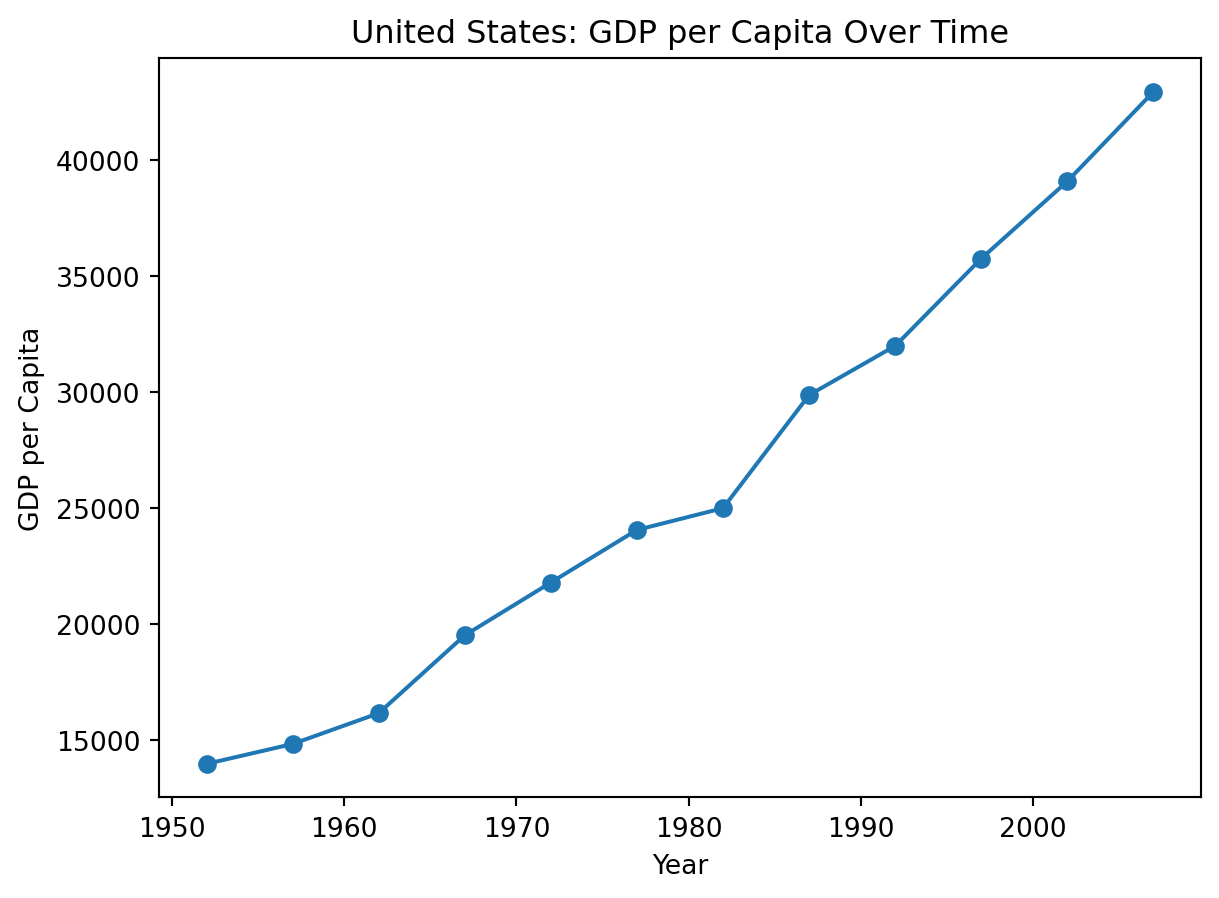
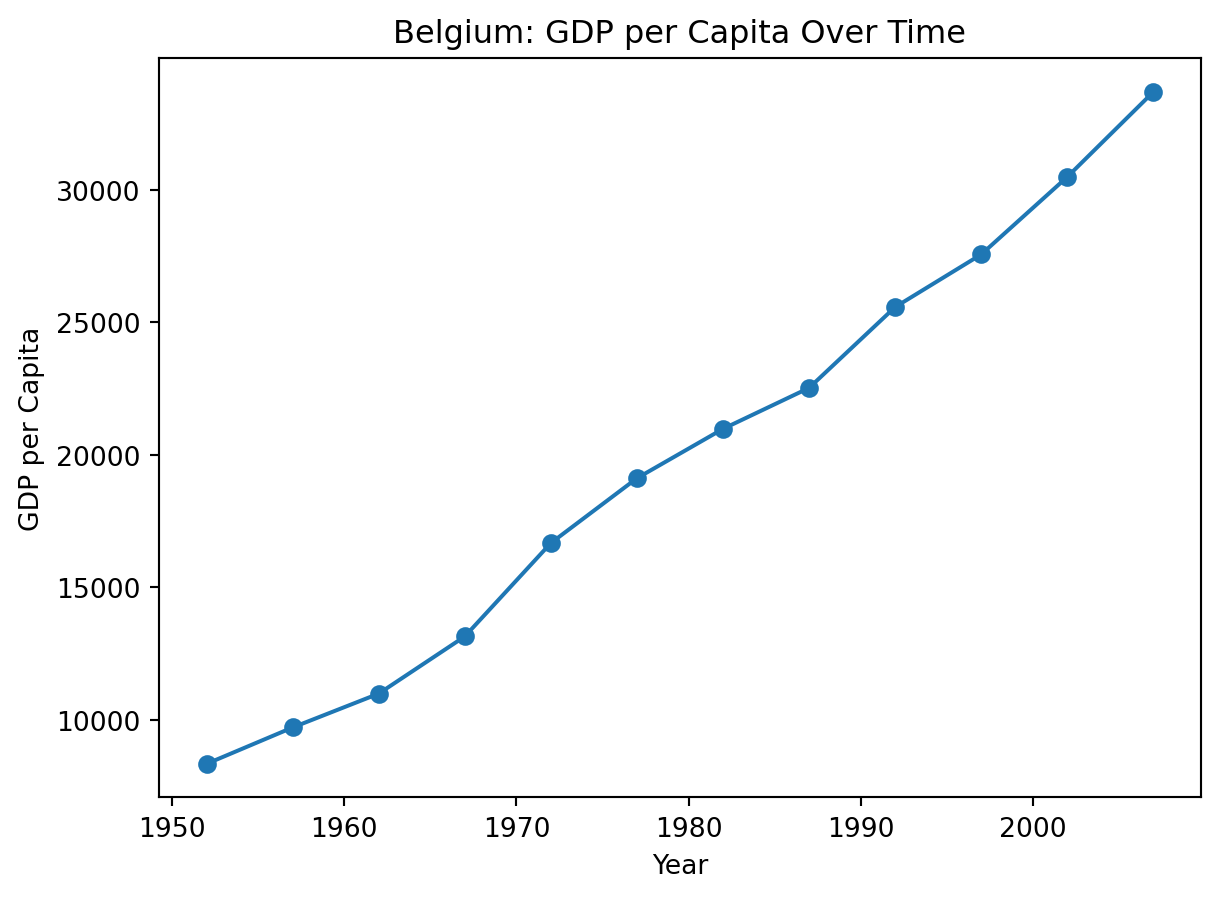
Changed country

diff --git a/docs/country.html b/docs/country.html
@@ -176,39 +176,40 @@ pre > code.sourceCode > span > a:first-child::before { text-decoration: underlin
 </header>
 
 
-<p>This page tracks life expectancy, GDP per capita, and population over time for one selected country.</p>
-<div id="36766935" class="cell" data-execution_count="1">
+<p>This page tracks life expectancy, GDP per capita, and population over time for Belgium.</p>
+<div id="dc709386" class="cell" data-execution_count="1">
 <div class="code-copy-outer-scaffold"><div class="sourceCode cell-code" id="cb1"><pre class="sourceCode python code-with-copy"><code class="sourceCode python"><span id="cb1-1"><a href="#cb1-1" aria-hidden="true" tabindex="-1"></a><span class="im">import</span> pandas <span class="im">as</span> pd</span>
 <span id="cb1-2"><a href="#cb1-2" aria-hidden="true" tabindex="-1"></a><span class="im">import</span> matplotlib.pyplot <span class="im">as</span> plt</span>
 <span id="cb1-3"><a href="#cb1-3" aria-hidden="true" tabindex="-1"></a></span>
 <span id="cb1-4"><a href="#cb1-4" aria-hidden="true" tabindex="-1"></a>df <span class="op">=</span> pd.read_csv(<span class="st">"gapminder.csv"</span>)</span>
 <span id="cb1-5"><a href="#cb1-5" aria-hidden="true" tabindex="-1"></a></span>
-<span id="cb1-6"><a href="#cb1-6" aria-hidden="true" tabindex="-1"></a>country_name <span class="op">=</span> <span class="st">"United States"</span>  <span class="co"># change this if you want</span></span>
-<span id="cb1-7"><a href="#cb1-7" aria-hidden="true" tabindex="-1"></a>c <span class="op">=</span> df[df[<span class="st">"country"</span>] <span class="op">==</span> country_name].sort_values(<span class="st">"year"</span>)</span>
-<span id="cb1-8"><a href="#cb1-8" aria-hidden="true" tabindex="-1"></a></span>
-<span id="cb1-9"><a href="#cb1-9" aria-hidden="true" tabindex="-1"></a><span class="co"># Life expectancy over time</span></span>
-<span id="cb1-10"><a href="#cb1-10" aria-hidden="true" tabindex="-1"></a>plt.figure()</span>
-<span id="cb1-11"><a href="#cb1-11" aria-hidden="true" tabindex="-1"></a>plt.plot(c[<span class="st">"year"</span>], c[<span class="st">"life_expectancy"</span>], marker<span class="op">=</span><span class="st">"o"</span>)</span>
-<span id="cb1-12"><a href="#cb1-12" aria-hidden="true" tabindex="-1"></a>plt.xlabel(<span class="st">"Year"</span>)</span>
-<span id="cb1-13"><a href="#cb1-13" aria-hidden="true" tabindex="-1"></a>plt.ylabel(<span class="st">"Life Expectancy"</span>)</span>
-<span id="cb1-14"><a href="#cb1-14" aria-hidden="true" tabindex="-1"></a>plt.title(<span class="ss">f"</span><span class="sc">{</span>country_name<span class="sc">}</span><span class="ss">: Life Expectancy Over Time"</span>)</span>
-<span id="cb1-15"><a href="#cb1-15" aria-hidden="true" tabindex="-1"></a>plt.show()</span>
-<span id="cb1-16"><a href="#cb1-16" aria-hidden="true" tabindex="-1"></a></span>
-<span id="cb1-17"><a href="#cb1-17" aria-hidden="true" tabindex="-1"></a><span class="co"># GDP per capita over time</span></span>
-<span id="cb1-18"><a href="#cb1-18" aria-hidden="true" tabindex="-1"></a>plt.figure()</span>
-<span id="cb1-19"><a href="#cb1-19" aria-hidden="true" tabindex="-1"></a>plt.plot(c[<span class="st">"year"</span>], c[<span class="st">"gdp_per_capita"</span>], marker<span class="op">=</span><span class="st">"o"</span>)</span>
-<span id="cb1-20"><a href="#cb1-20" aria-hidden="true" tabindex="-1"></a>plt.xlabel(<span class="st">"Year"</span>)</span>
-<span id="cb1-21"><a href="#cb1-21" aria-hidden="true" tabindex="-1"></a>plt.ylabel(<span class="st">"GDP per Capita"</span>)</span>
-<span id="cb1-22"><a href="#cb1-22" aria-hidden="true" tabindex="-1"></a>plt.title(<span class="ss">f"</span><span class="sc">{</span>country_name<span class="sc">}</span><span class="ss">: GDP per Capita Over Time"</span>)</span>
-<span id="cb1-23"><a href="#cb1-23" aria-hidden="true" tabindex="-1"></a>plt.show()</span>
-<span id="cb1-24"><a href="#cb1-24" aria-hidden="true" tabindex="-1"></a></span>
-<span id="cb1-25"><a href="#cb1-25" aria-hidden="true" tabindex="-1"></a><span class="co"># Population over time</span></span>
-<span id="cb1-26"><a href="#cb1-26" aria-hidden="true" tabindex="-1"></a>plt.figure()</span>
-<span id="cb1-27"><a href="#cb1-27" aria-hidden="true" tabindex="-1"></a>plt.plot(c[<span class="st">"year"</span>], c[<span class="st">"population_millions"</span>], marker<span class="op">=</span><span class="st">"o"</span>)</span>
-<span id="cb1-28"><a href="#cb1-28" aria-hidden="true" tabindex="-1"></a>plt.xlabel(<span class="st">"Year"</span>)</span>
-<span id="cb1-29"><a href="#cb1-29" aria-hidden="true" tabindex="-1"></a>plt.ylabel(<span class="st">"Population (millions)"</span>)</span>
-<span id="cb1-30"><a href="#cb1-30" aria-hidden="true" tabindex="-1"></a>plt.title(<span class="ss">f"</span><span class="sc">{</span>country_name<span class="sc">}</span><span class="ss">: Population Over Time"</span>)</span>
-<span id="cb1-31"><a href="#cb1-31" aria-hidden="true" tabindex="-1"></a>plt.show()</span></code></pre></div><button title="Copy to Clipboard" class="code-copy-button"><i class="bi"></i></button></div>
+<span id="cb1-6"><a href="#cb1-6" aria-hidden="true" tabindex="-1"></a>country_name <span class="op">=</span> <span class="st">"Belgium"</span> </span>
+<span id="cb1-7"><a href="#cb1-7" aria-hidden="true" tabindex="-1"></a></span>
+<span id="cb1-8"><a href="#cb1-8" aria-hidden="true" tabindex="-1"></a>c <span class="op">=</span> df[df[<span class="st">"country"</span>] <span class="op">==</span> country_name].sort_values(<span class="st">"year"</span>)</span>
+<span id="cb1-9"><a href="#cb1-9" aria-hidden="true" tabindex="-1"></a></span>
+<span id="cb1-10"><a href="#cb1-10" aria-hidden="true" tabindex="-1"></a><span class="co"># Life expectancy over time</span></span>
+<span id="cb1-11"><a href="#cb1-11" aria-hidden="true" tabindex="-1"></a>plt.figure()</span>
+<span id="cb1-12"><a href="#cb1-12" aria-hidden="true" tabindex="-1"></a>plt.plot(c[<span class="st">"year"</span>], c[<span class="st">"life_expectancy"</span>], marker<span class="op">=</span><span class="st">"o"</span>)</span>
+<span id="cb1-13"><a href="#cb1-13" aria-hidden="true" tabindex="-1"></a>plt.xlabel(<span class="st">"Year"</span>)</span>
+<span id="cb1-14"><a href="#cb1-14" aria-hidden="true" tabindex="-1"></a>plt.ylabel(<span class="st">"Life Expectancy"</span>)</span>
+<span id="cb1-15"><a href="#cb1-15" aria-hidden="true" tabindex="-1"></a>plt.title(<span class="ss">f"</span><span class="sc">{</span>country_name<span class="sc">}</span><span class="ss">: Life Expectancy Over Time"</span>)</span>
+<span id="cb1-16"><a href="#cb1-16" aria-hidden="true" tabindex="-1"></a>plt.show()</span>
+<span id="cb1-17"><a href="#cb1-17" aria-hidden="true" tabindex="-1"></a></span>
+<span id="cb1-18"><a href="#cb1-18" aria-hidden="true" tabindex="-1"></a><span class="co"># GDP per capita over time</span></span>
+<span id="cb1-19"><a href="#cb1-19" aria-hidden="true" tabindex="-1"></a>plt.figure()</span>
+<span id="cb1-20"><a href="#cb1-20" aria-hidden="true" tabindex="-1"></a>plt.plot(c[<span class="st">"year"</span>], c[<span class="st">"gdp_per_capita"</span>], marker<span class="op">=</span><span class="st">"o"</span>)</span>
+<span id="cb1-21"><a href="#cb1-21" aria-hidden="true" tabindex="-1"></a>plt.xlabel(<span class="st">"Year"</span>)</span>
+<span id="cb1-22"><a href="#cb1-22" aria-hidden="true" tabindex="-1"></a>plt.ylabel(<span class="st">"GDP per Capita"</span>)</span>
+<span id="cb1-23"><a href="#cb1-23" aria-hidden="true" tabindex="-1"></a>plt.title(<span class="ss">f"</span><span class="sc">{</span>country_name<span class="sc">}</span><span class="ss">: GDP per Capita Over Time"</span>)</span>
+<span id="cb1-24"><a href="#cb1-24" aria-hidden="true" tabindex="-1"></a>plt.show()</span>
+<span id="cb1-25"><a href="#cb1-25" aria-hidden="true" tabindex="-1"></a></span>
+<span id="cb1-26"><a href="#cb1-26" aria-hidden="true" tabindex="-1"></a><span class="co"># Population over time</span></span>
+<span id="cb1-27"><a href="#cb1-27" aria-hidden="true" tabindex="-1"></a>plt.figure()</span>
+<span id="cb1-28"><a href="#cb1-28" aria-hidden="true" tabindex="-1"></a>plt.plot(c[<span class="st">"year"</span>], c[<span class="st">"population_millions"</span>], marker<span class="op">=</span><span class="st">"o"</span>)</span>
+<span id="cb1-29"><a href="#cb1-29" aria-hidden="true" tabindex="-1"></a>plt.xlabel(<span class="st">"Year"</span>)</span>
+<span id="cb1-30"><a href="#cb1-30" aria-hidden="true" tabindex="-1"></a>plt.ylabel(<span class="st">"Population (millions)"</span>)</span>
+<span id="cb1-31"><a href="#cb1-31" aria-hidden="true" tabindex="-1"></a>plt.title(<span class="ss">f"</span><span class="sc">{</span>country_name<span class="sc">}</span><span class="ss">: Population Over Time"</span>)</span>
+<span id="cb1-32"><a href="#cb1-32" aria-hidden="true" tabindex="-1"></a>plt.show()</span></code></pre></div><button title="Copy to Clipboard" class="code-copy-button"><i class="bi"></i></button></div>
 <div class="cell-output cell-output-display">
 <div>
 <figure class="figure">
@@ -226,7 +227,7 @@ pre > code.sourceCode > span > a:first-child::before { text-decoration: underlin
 <div class="cell-output cell-output-display">
 <div>
 <figure class="figure">
-<p><img src="country_files/figure-html/cell-2-output-3.png" width="593" height="449" class="figure-img"></p>
+<p><img src="country_files/figure-html/cell-2-output-3.png" width="606" height="449" class="figure-img"></p>
 </figure>
 </div>
 </div>

diff --git a/docs/life-gdp.html b/docs/life-gdp.html
@@ -177,13 +177,13 @@ pre > code.sourceCode > span > a:first-child::before { text-decoration: underlin
 
 
 <p>This page explores how life expectancy relates to GDP per capita, and how that relationship changes across time.</p>
-<div id="e97bbeb2" class="cell" data-execution_count="1">
+<div id="0c6b2ffa" class="cell" data-execution_count="1">
 <div class="code-copy-outer-scaffold"><div class="sourceCode cell-code" id="cb1"><pre class="sourceCode python code-with-copy"><code class="sourceCode python"><span id="cb1-1"><a href="#cb1-1" aria-hidden="true" tabindex="-1"></a><span class="im">import</span> pandas <span class="im">as</span> pd</span>
 <span id="cb1-2"><a href="#cb1-2" aria-hidden="true" tabindex="-1"></a><span class="im">import</span> matplotlib.pyplot <span class="im">as</span> plt</span>
 <span id="cb1-3"><a href="#cb1-3" aria-hidden="true" tabindex="-1"></a></span>
 <span id="cb1-4"><a href="#cb1-4" aria-hidden="true" tabindex="-1"></a>df <span class="op">=</span> pd.read_csv(<span class="st">"gapminder.csv"</span>)</span>
 <span id="cb1-5"><a href="#cb1-5" aria-hidden="true" tabindex="-1"></a></span>
-<span id="cb1-6"><a href="#cb1-6" aria-hidden="true" tabindex="-1"></a>sample_years <span class="op">=</span> [<span class="dv">1952</span>, <span class="dv">1977</span>, <span class="dv">2007</span>]</span>
+<span id="cb1-6"><a href="#cb1-6" aria-hidden="true" tabindex="-1"></a>sample_years <span class="op">=</span> [<span class="dv">1997</span>, <span class="dv">2007</span>]</span>
 <span id="cb1-7"><a href="#cb1-7" aria-hidden="true" tabindex="-1"></a></span>
 <span id="cb1-8"><a href="#cb1-8" aria-hidden="true" tabindex="-1"></a>plt.figure()</span>
 <span id="cb1-9"><a href="#cb1-9" aria-hidden="true" tabindex="-1"></a><span class="cf">for</span> y <span class="kw">in</span> sample_years:</span>

diff --git a/docs/life-population.html b/docs/life-population.html
@@ -177,7 +177,7 @@ pre > code.sourceCode > span > a:first-child::before { text-decoration: underlin
 
 
 <p>This page explores the relationship between life expectancy and population size.</p>
-<div id="58957e76" class="cell" data-execution_count="1">
+<div id="99735890" class="cell" data-execution_count="1">
 <div class="code-copy-outer-scaffold"><div class="sourceCode cell-code" id="cb1"><pre class="sourceCode python code-with-copy"><code class="sourceCode python"><span id="cb1-1"><a href="#cb1-1" aria-hidden="true" tabindex="-1"></a><span class="im">import</span> pandas <span class="im">as</span> pd</span>
 <span id="cb1-2"><a href="#cb1-2" aria-hidden="true" tabindex="-1"></a><span class="im">import</span> matplotlib.pyplot <span class="im">as</span> plt</span>
 <span id="cb1-3"><a href="#cb1-3" aria-hidden="true" tabindex="-1"></a></span>
